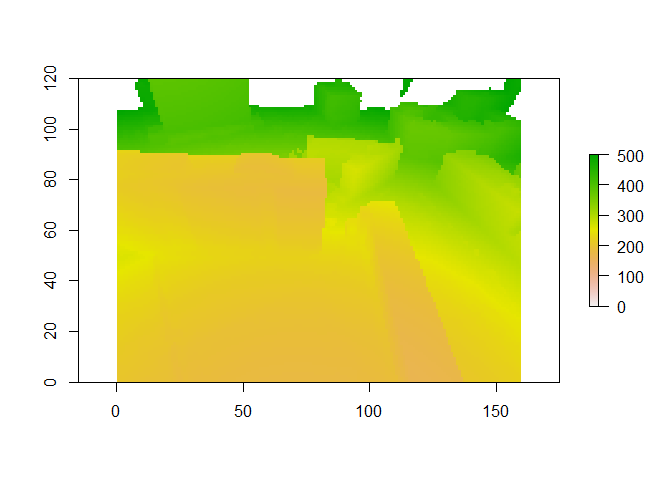
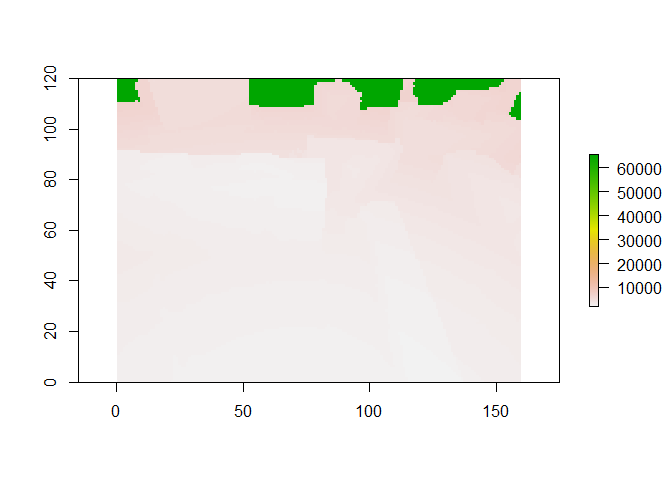
MLOS

diff --git a/tutorials/Multi-line-of-sight-images/README.md b/tutorials/Multi-line-of-sight-images/README.md
@@ -35,7 +35,20 @@ Execute the following command (will require modification based on your file loca
 
 The [output file(s)](README_files/figure-misc/Camera.tiff) will be saved in a folder `cameraPathLengths` in the current command line directory.
 
-![Blender_zpath_raw](README_files/figure-misc/Camera.tiff)
+
+```r
+library(raster)
+```
+
+```
+## Loading required package: sp
+```
+
+```r
+plot(raster("README_files/figure-misc/Camera.tiff"))
+```
+
+![](README_files/figure-gfm/unnamed-chunk-1-2-1.png)<!-- -->
 
 The image colourdepth is scaled to 16 bit tiff format. To rescale this to units of m, the files should be loaded and rescaled using the following formula
 
@@ -49,20 +62,13 @@ where `zPath` is the scaled path length (m) `RAW` is the [raw image](README_file
 
 ```r
 library(raster)
-```
-
-```
-## Loading required package: sp
-```
-
-```r
 RAW <- raster("README_files/figure-misc/Camera.tiff")
 renderDistance <- 5000 # m
 zPath <- (RAW / 65535) * renderDistance
 plot(zPath, zlim = c(0, 500))
 ```
 
-![](README_files/figure-gfm/unnamed-chunk-1-2-1.png)<!-- -->
+![](README_files/figure-gfm/unnamed-chunk-3-1.png)<!-- -->
 
 ```r
 writeRaster(x = zPath, 
